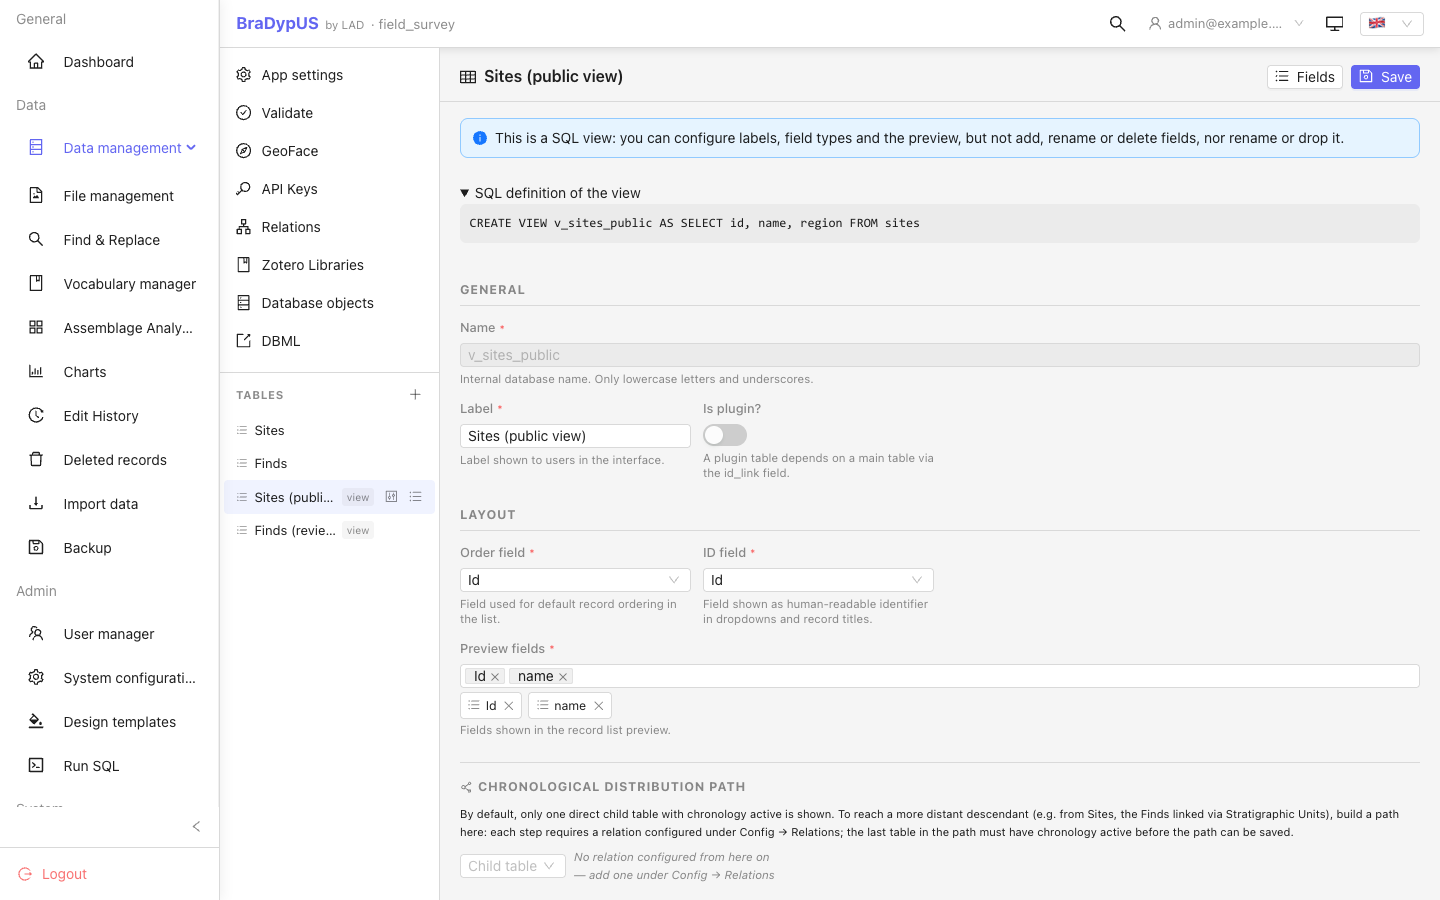
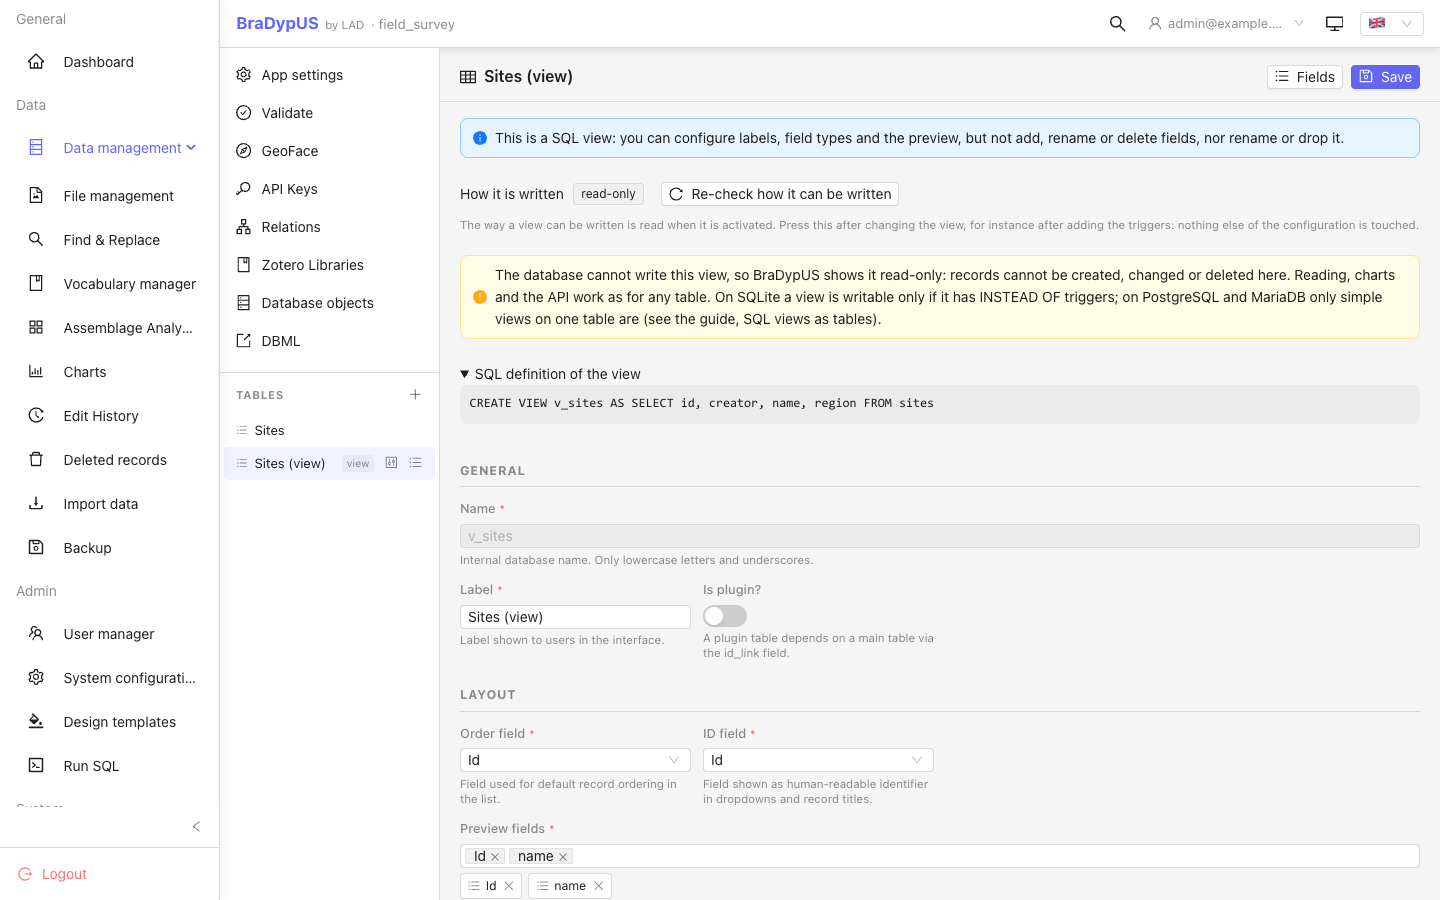
docs: support per engine for SQL views, trigger example, Re-check button (#53)
SQLite: a view is read-only unless the user adds INSTEAD OF triggers (example
in the guide); PostgreSQL and MariaDB: views the engine considers updatable
are writable natively. Read-only views stay useful for charts, search and the
API. Documents the new Re-check button; refreshes view-table-settings.png.
llms.txt, evaluate.md and the bootstrap skill say the same.

Part of #53

diff --git a/bdus-docs/guide/setup/views.md b/bdus-docs/guide/setup/views.md
@@ -96,30 +96,76 @@ plugins are refused (`view_not_alterable`). Change the view in SQL (`CREATE OR R
 
 ### Writing through a view <Badge type="tip" text="v5.17.0" />
 
+What a registered view can do depends on the engine. BraDypUS does not write SQL for you: the view
+is created by hand, and so is whatever makes it writable.
+
+| Engine | Reading, charts, [API](../api/) | Creating, changing, deleting records |
+|---|---|---|
+| **SQLite** | Always | Only if **you** add `INSTEAD OF` triggers (example below). Without them the view is read-only |
+| **PostgreSQL**, **MariaDB / MySQL** | Always | Natively, for the views the engine itself considers updatable: in practice a view on **one table**, without `DISTINCT`, `GROUP BY`, aggregates or `UNION`. Other views are read-only, or, on PostgreSQL, writable through `INSTEAD OF` triggers |
+
 When a view is activated, BraDypUS records how it can be written (`view_writable`):
 
 | | Meaning |
 |---|---|
-| `none` | **Read-only.** The interface hides *Edit*, *Delete* and *New*; the server answers `view_read_only` |
-| `probe` | The database says the view is updatable (PostgreSQL and MariaDB: a simple view on one table) |
-| `trigger` | SQLite, or any engine with `INSTEAD OF` triggers: writable through the triggers |
+| `none` | **Read-only.** The interface hides *Edit*, *Duplicate*, *Delete* and *New*; the server answers `view_read_only` |
+| `probe` | The database says the view is updatable (PostgreSQL, MariaDB) |
+| `trigger` | Writable through `INSTEAD OF` triggers |
 
-On **SQLite** a view is writable only if you defined `INSTEAD OF` triggers for it, and the
-trigger that inserts should not invent the `id`: let the base table assign it, and BraDypUS reads
-the new `id` from the base table inside the same transaction (SQLite's own "last inserted id"
-is stale after an insert through a view). On **PostgreSQL**, an `INSTEAD OF` trigger that inserts
-with explicit ids can make the new id come back wrong: let the sequence of the base table assign it.
+A read-only view is not a lesser one: it is the usual way to give charts, searches and the API a
+flat, prepared version of the data.
 
-A read-only view shows the record with no *Edit*, *Duplicate* or *Delete*, and no *New* in the list:
+#### SQLite: making a view writable
 
-![A record of a read-only view: only Version history is offered](/images/v5/setup/view-readonly-record.png)
+On SQLite a view is writable only through `INSTEAD OF` triggers. For a view on one table the three
+triggers below are all that is needed. Adapt the names and the column lists: this example is a view
+`v_site` over a table `site` that exposes `id`, `creator`, `name` and `place`.
 
-A writable view looks like any table to the person using it:
+```sql
+CREATE TRIGGER v_site_ins INSTEAD OF INSERT ON v_site
+BEGIN
+  INSERT INTO site (id, creator, name, place)
+  VALUES (NEW.id, NEW.creator, NEW.name, NEW.place);
+END;
 
-![A record of a writable view: Edit, Duplicate and Delete are there](/images/v5/setup/view-writable-record.png)
+CREATE TRIGGER v_site_upd INSTEAD OF UPDATE ON v_site
+BEGIN
+  UPDATE site SET name = NEW.name, place = NEW.place
+  WHERE id = OLD.id;
+END;
 
-If you change how a view can be written, **Config → Validation** warns that the saved value is
-out of date; remove the view from the configuration and activate it again.
+CREATE TRIGGER v_site_del INSTEAD OF DELETE ON v_site
+BEGIN
+  DELETE FROM site WHERE id = OLD.id;
+END;
+```
+
+- **Do not invent the `id`** in the insert trigger: leave `NEW.id` as it comes (empty) and let the base
+  table assign it. BraDypUS reads the new `id` from the base table inside the same transaction, because
+  SQLite's own "last inserted id" is stale after an insert through a view.
+- **`creator` is written on insert and never updated**, so a record keeps the person who created it.
+- **Columns of the base table that the view leaves out** must accept `NULL` or have a default, or every
+  insert fails.
+- A view with a `WHERE` can make a row disappear from the view as soon as it is saved (a new or changed
+  row that no longer matches). That is how the triggers behave, not a BraDypUS rule.
+- **Recreating the view drops its triggers** (SQLite drops them with the view): run the three statements again.
+
+After adding or dropping triggers, open the view's settings (**Config → Tables**) and press
+**Re-check how it can be written**: BraDypUS reads it again and updates `view_writable`, without touching
+labels or field settings. The view needs a `creator` column to be writable; without it the button refuses.
+
+![Settings of a read-only SQL view: its state, why it is read-only, the Re-check button, and the SQL definition](/images/v5/setup/view-table-settings.png)
+
+#### PostgreSQL and MariaDB
+
+A simple view works as it is, with no triggers. Two things to know:
+- The new record gets its `id` from the base table, so the base table must assign it (a sequence or
+  `AUTO_INCREMENT`); an `INSTEAD OF` trigger on PostgreSQL that inserts with an explicit id can make the
+  new id come back wrong.
+- `probe` says the engine considers the view updatable, not that every save will succeed: a constraint
+  of the base table can still refuse it, and the user sees a generic error.
+
+#### History, locks and rules
 
 The history (`bdus_versions`), [locks](./groups#locks) and group rules of a view are kept **under
 the view's name**, exactly as for a table. This is by design: a person working through a view
@@ -273,7 +319,8 @@ These are the things that surprise people. Read them before you plan.
 9. **A registered view cannot be altered from Config** (`view_not_alterable`, since
    5.17.0; before, it reported success and changed nothing). Adding a field to the base
    table does not add it to the views: change the view in SQL, then remove it from the
-   configuration and activate it again to pick up the new column.
+   configuration and activate it again to pick up the new column (the
+   *Re-check how it can be written* button only updates how the view is written, not its columns).
 10. **DBML.** Since 5.17.0 a registered view is exported with `bdus:view=1`, and
     importing it *activates* the view of the same name that must already exist in
     the target database; it never creates a view (see [DBML](./dbml#views)). Before,

diff --git a/bdus-docs/guide/setup/database-objects.md b/bdus-docs/guide/setup/database-objects.md
@@ -65,12 +65,14 @@ indexes or relations, or switch on system plugins. Those answer `view_not_altera
 the structure of a view belongs to the database.
 
 
-![Settings of a registered SQL view: a note, the SQL definition, no rename button](/images/v5/setup/view-table-settings.png)
+![Settings of a read-only SQL view: its state, why it is read-only, the Re-check button, and the SQL definition](/images/v5/setup/view-table-settings.png)
 
 ![Fields of a SQL view: they can be configured, but there is no button to add, rename or delete one](/images/v5/setup/view-fields.png)
 
 Read-only views have no *Edit*, *Delete* or *New* in the interface, and the server refuses
-writes with `view_read_only`. How a view is written, the history it keeps and the limits
+writes with `view_read_only`. The settings of a view say whether it is read-only or writable, why,
+and have a **Re-check how it can be written** button for after you change the view (on SQLite, after
+adding the triggers that make it writable). How a view is written, the history it keeps and the limits
 are in [SQL views as tables](./views).
 
 ## Deactivate, remove from configuration, delete <Badge type="tip" text="v5.17.0" />
@@ -121,6 +123,7 @@ All routes need the super-admin token.
 | `GET /api/config/db-objects` | The list above, with `activatable`, `reason`, `inactive` |
 | `GET /api/config/db-objects/{name}` | The preview: fields, foreign keys, view SQL. Writes nothing |
 | `POST /api/config/db-objects/{name}/activate` | Activates, or reactivates a deactivated table |
+| `POST /api/config/table/{tb}/view-writable` | Re-reads how a registered view can be written (`none` / `probe` / `trigger`), nothing else changes |
 | `PUT /api/config/table/{tb}/active` `{"active": false}` | Deactivate / reactivate |
 | `DELETE /api/config/table/{tb}?keep_data=1` | Remove from configuration, keep the table |
 | `DELETE /api/config/table/{tb}` | **Drop the table and its data** |
@@ -137,5 +140,6 @@ The same names appear in the [OpenAPI description](/api-reference/).
 
 **Config → Validation** checks the registered views against the database: a view must still
 be a view (and a table still a table), keep its `id` column, and the way it can be written is
-compared with what was found when it was activated. A column added to or removed from a view
-is reported with what to do: remove the view from the configuration and activate it again.
+compared with what was found when it was activated (fix it with **Re-check how it can be written**). A
+column added to or removed from a view is reported with what to do: remove the view from the
+configuration and activate it again.

diff --git a/skills/bradypus-bootstrap/SKILL.md b/skills/bradypus-bootstrap/SKILL.md
@@ -221,7 +221,10 @@ what they should see after each click.
   without losing anything, deactivate it (`PUT …/table/{tb}/active {"active": false}`) or remove
   only its configuration (`DELETE …/table/{tb}?keep_data=1`); both leave the data in the database.
 - A registered SQL view cannot be altered from BraDypUS (`view_not_alterable`) and may be
-  read-only (`view_read_only`): change the view in SQL, never by retrying the call.
+  read-only (`view_read_only`): change the view in SQL, never by retrying the call. On SQLite
+  a view is read-only (fine for reading, charts, the API) unless the user adds `INSTEAD OF`
+  triggers (example in `guide/setup/views.md`); do not write them for the user unasked. After
+  they change a view, `POST …/api/config/table/{tb}/view-writable` re-reads how it can be written.
 - When something is not covered here, read the page named above (raw Markdown on GitHub,
   `https://raw.githubusercontent.com/lad-sapienza/BraDypUS/v5/bdus-docs/…`) rather than
   guessing, and report the gap to the user.

diff --git a/bdus-docs/guide/evaluate.md b/bdus-docs/guide/evaluate.md
@@ -56,7 +56,7 @@ versions of every record, files, maps and print templates on top of them.
   validated flow can still be had with **SQL views and triggers** in the database
   ([SQL views as tables](/guide/setup/views)), at the price of writing that SQL and
   of the limits that page lists (tried on MariaDB and PostgreSQL; no notifications).
-  BraDypUS registers such views and knows whether they can be written, but never creates them.
+  BraDypUS registers such views and knows whether they can be written, but never creates them or writes their SQL: on PostgreSQL and MariaDB a view on one table is writable as it is; on SQLite it is read-only (fine for charts and the API) unless you add `INSTEAD OF` triggers yourself.
 - You cannot host and back up a small web application.
 
 ## What your data must look like
